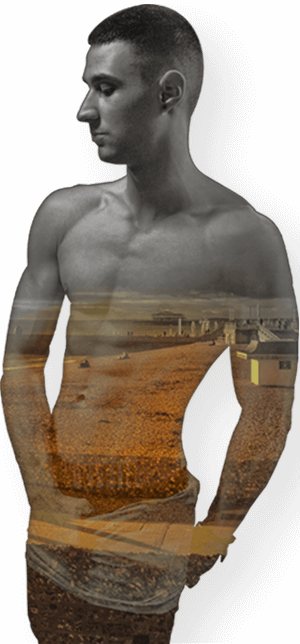
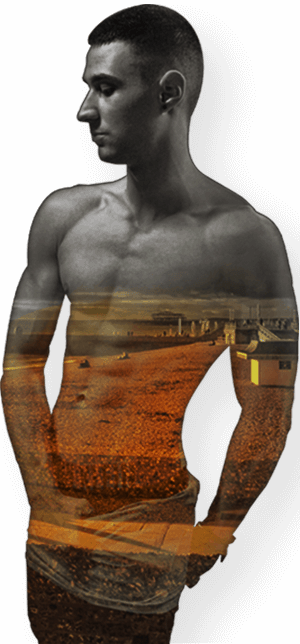
Images Remastered + Minor Bugs

diff --git a/css/style.css b/css/style.css
@@ -186,6 +186,7 @@ hr {
 
 .cd-logo img {
   display: block;
+  filter: saturate(1);
 }
 
 .cd-logo img:hover {
@@ -615,7 +616,7 @@ hr {
   width: 100%;
   background-position: top;
   background-size: cover;
-  height: 100%;
+  height: 100vh;
 }
 
 .slide:nth-of-type(3) {
